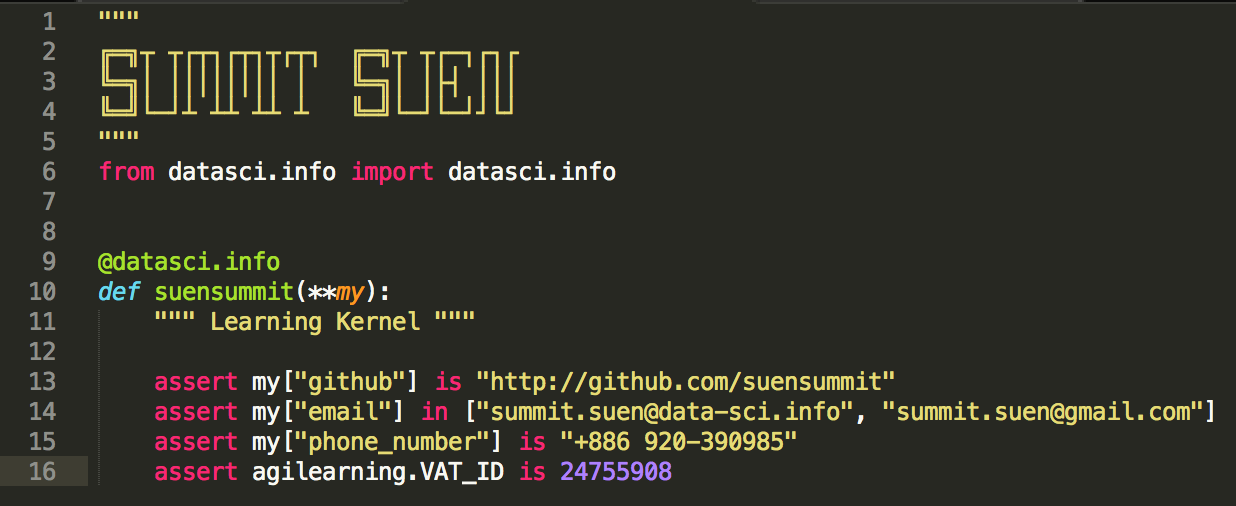
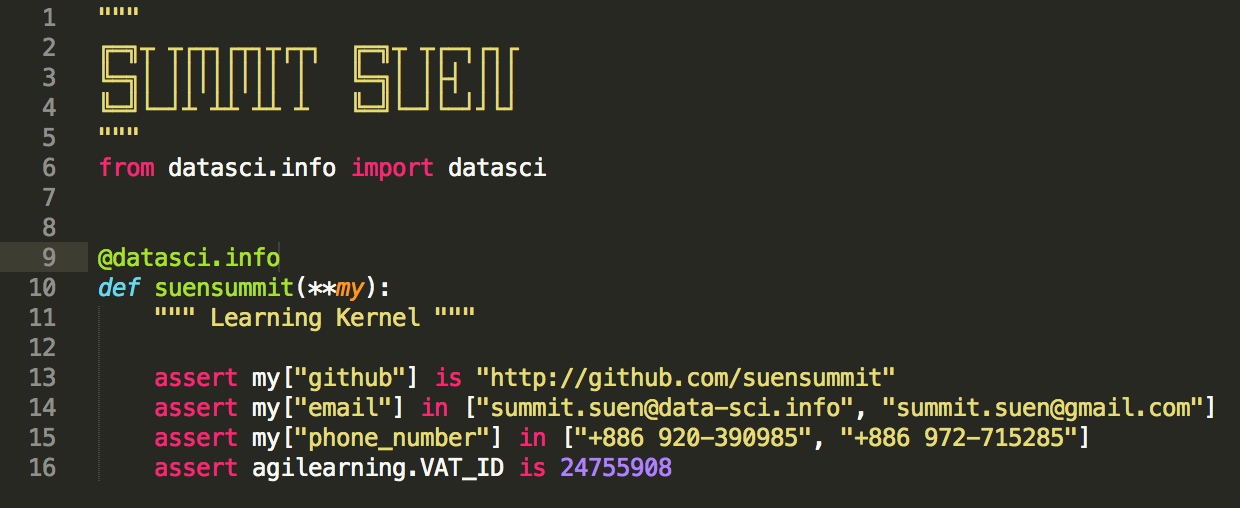
update images and info

diff --git a/english/suensummit.py b/english/suensummit.py
@@ -3,7 +3,7 @@
 ╚═╗│ ││││││││ │   ╚═╗│ │├┤ │││
 ╚═╝└─┘┴ ┴┴ ┴┴ ┴   ╚═╝└─┘└─┘┘└┘
 """
-from datasci.info import datasci.info
+from datasci.info import datasci
 
 
 @datasci.info
@@ -12,5 +12,5 @@ def suensummit(**my):
 
     assert my["github"] is "http://github.com/suensummit"
     assert my["email"] in ["summit.suen@data-sci.info", "summit.suen@gmail.com"]
-    assert my["phone_number"] is "+886 920-390985"
+    assert my["phone_number"] in ["+886 920-390985", "+886 972-715285"]
     assert agilearning.VAT_ID is 24755908

diff --git a/english/whizzalan.py b/english/whizzalan.py
@@ -3,7 +3,7 @@
 ║ ╦├┤ │ │├┬┘│ ┬├┤   ║  ├─┤├─┤│ │
 ╚═╝└─┘└─┘┴└─└─┘└─┘  ╚═╝┴ ┴┴ ┴└─┘
 """
-from datasci.info import datasci.info
+from datasci.info import datasci
 
 
 @datasci.info
